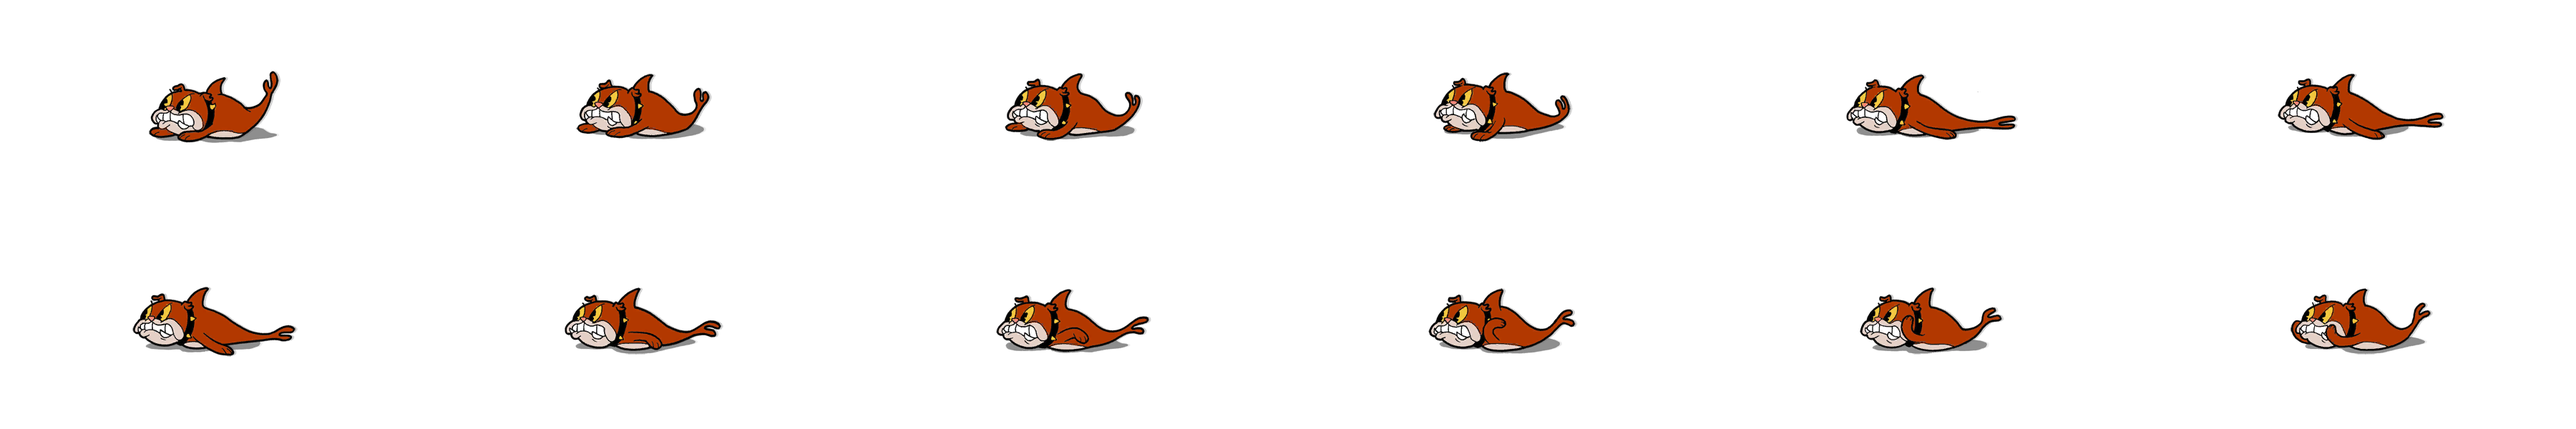
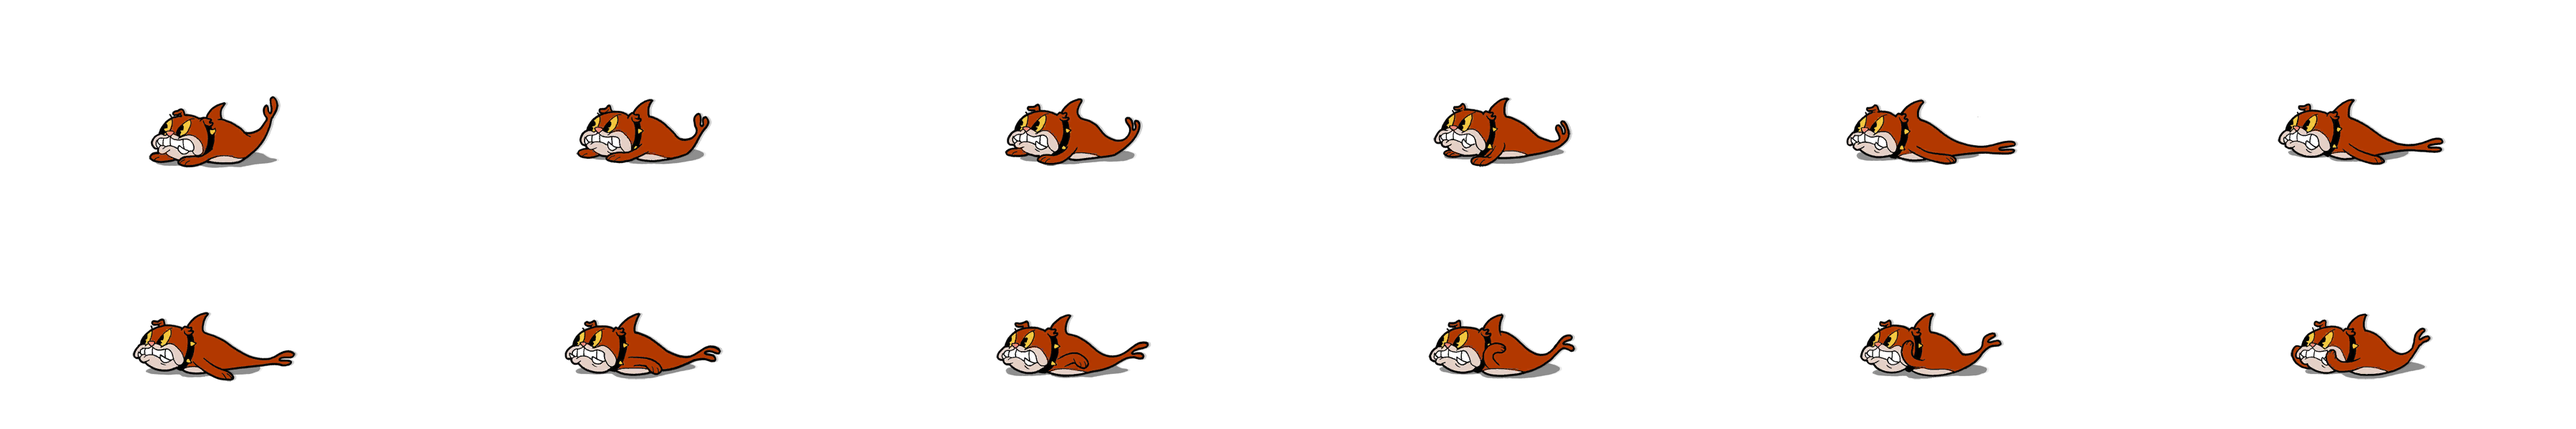
김경윤 : SeaDog 나타나서 이동까지 구현

diff --git a/DX_KKY/Contents/SeaDog.cpp b/DX_KKY/Contents/SeaDog.cpp
@@ -57,19 +57,22 @@ void ASeaDog::CreateAnimation()
 	SeaDogRenderer->CreateAnimation(PirateBossAniName::SeaDog_Appear2, "SeaDog_Appear.png", 0.057f, false, 12, 13);
 	SeaDogRenderer->CreateAnimation(PirateBossAniName::SeaDog_Appear3, "SeaDog_Appear.png", 0.0417f, false, 14, 15);
 	SeaDogRenderer->CreateAnimation(PirateBossAniName::SeaDog_Appear4, "SeaDog_Appear.png", 0.0417f, false, 16, 19);
-	SeaDogRenderer->CreateAnimation(PirateBossAniName::SeaDog_Appear5, "SeaDog_Appear.png", 0.0417f, false, 20, 21);
+	SeaDogRenderer->CreateAnimation(PirateBossAniName::SeaDog_Appear5, "SeaDog_Appear.png", 0.057f, false, 20, 21);
+	SeaDogRenderer->CreateAnimation(PirateBossAniName::SeaDog_Move, "SeaDog_Move.png", 0.0417f);
 
 
 	//UEngineSprite::CreateCutting("SeaDog_Appear_Effect.png", 6, 2);
 	//UEngineSprite::CreateCutting("SeaDog_Death.png", 8, 1);
 	//UEngineSprite::CreateCutting("SeaDog_Death_Effect.png", 5, 2);
-	//UEngineSprite::CreateCutting("SeaDog_Move.png", 6, 2);
 	//UEngineSprite::CreateCutting("SeaDog_Periscope.png", 10, 5);
 }
 
 void ASeaDog::SetAnimationCallback()
 {
-
+	SeaDogRenderer->SetFrameCallback(PirateBossAniName::SeaDog_Appear5, 2, [this]()
+		{
+			SeaDogRenderer->ChangeAnimation(PirateBossAniName::SeaDog_Move);
+		});
 }
 
 void ASeaDog::ColliderInit()
@@ -84,6 +87,7 @@ void ASeaDog::StateInit()
 		State.CreateState(PirateBossState::SeaDog_Appear2);
 		State.CreateState(PirateBossState::SeaDog_Appear3);
 		State.CreateState(PirateBossState::SeaDog_Appear4);
+		State.CreateState(PirateBossState::SeaDog_Move);
 	}
 
 	{
@@ -99,12 +103,17 @@ void ASeaDog::StateInit()
 			});
 		State.SetStartFunction(PirateBossState::SeaDog_Appear3, [this]()
 			{
-				SetSpeedVec(float4::Left * 1000.0f);
+				SetSpeedVec(float4::Left * Appear2Speed);
 				SeaDogRenderer->ChangeAnimation(PirateBossAniName::SeaDog_Appear3);
 			});
 		State.SetStartFunction(PirateBossState::SeaDog_Appear4, [this]()
 			{
 				SeaDogRenderer->ChangeAnimation(PirateBossAniName::SeaDog_Appear4);
+			});
+		State.SetStartFunction(PirateBossState::SeaDog_Move, [this]()
+			{
+				SetSpeedVec(float4::Left * MoveSpeed);
+				SeaDogRenderer->ChangeAnimation(PirateBossAniName::SeaDog_Appear5);
 			});
 	}
 
@@ -123,9 +132,11 @@ void ASeaDog::StateInit()
 			{
 				if (true == SeaDogRenderer->IsCurAnimationEnd())
 				{
+					State.ChangeState(PirateBossState::SeaDog_Move);
 					return;
 				}
 			});
+		State.SetUpdateFunction(PirateBossState::SeaDog_Move, std::bind(&ASeaDog::Move, this, std::placeholders::_1));
 	}
 
 	{
@@ -155,7 +166,7 @@ void ASeaDog::CalGravityVec(float _DeltaTime)
 void ASeaDog::Appear_Step1(float _DeltaTime)
 {
 	float4 Pos = GetActorLocation();
-	Pos.Y = -Pos.Y + PixelCheckOffset;
+	Pos.Y = -(Pos.Y - PixelCheckOffset);
 
 	if (FirstAppearXBoundary >= Pos.X && true == PixelCheck(Pos, Color8Bit::Black))
 	{
@@ -172,6 +183,17 @@ void ASeaDog::Appear_Step2(float _DeltaTime)
 	if (true == SeaDogRenderer->IsCurAnimationEnd())
 	{
 		State.ChangeState(PirateBossState::SeaDog_Appear4);
+		return;
+	}
+
+	ResultMovementUpdate(_DeltaTime);
+}
+
+void ASeaDog::Move(float _DeltaTime)
+{
+	if (GetActorLocation().X < DestroyBoundaryValue)
+	{
+		Destroy();
 		return;
 	}
 

diff --git a/DX_KKY/Contents/SeaDog.h b/DX_KKY/Contents/SeaDog.h
@@ -34,8 +34,11 @@ private:
 	
 	float JumpSpeed = 1600.0f;
 	float Appear1Speed = 500.0f;
+	float Appear2Speed = 1000.0f;
 	float PixelCheckOffset = 100.0f;
 	float FirstAppearXBoundary = 800.0f;
+	float MoveSpeed = 600.0f;
+	float DestroyBoundaryValue = -200.0f;
 
 private:
 	void BeginPlay() override;
@@ -53,5 +56,6 @@ private:
 	void StateInit();
 	void Appear_Step1(float _DeltaTime);
 	void Appear_Step2(float _DeltaTime);
+	void Move(float _DeltaTime);
 };
 

diff --git a/DX_KKY/Contents/ContentsValue.h b/DX_KKY/Contents/ContentsValue.h
@@ -382,7 +382,7 @@ namespace PirateBossState
 	const std::string SeaDog_Appear2 = "SeaDog_Appear2";
 	const std::string SeaDog_Appear3 = "SeaDog_Appear3";
 	const std::string SeaDog_Appear4 = "SeaDog_Appear4";
-
+	const std::string SeaDog_Move = "SeaDog_Move";
 }
 
 namespace PirateBossStageValue

diff --git a/DX_KKY/Contents/PirateLevelMode.cpp b/DX_KKY/Contents/PirateLevelMode.cpp
@@ -228,9 +228,4 @@ void APirateLevelMode::ObjectCreate_SeaDog()
 {
 	ASeaDog* SeaDog = GetWorld()->SpawnActor<ASeaDog>("SeaDog", EActorType::Monster).get();
 	SeaDog->SetActorLocation(float4(1140.0f, -710.0f, 0.0f));
-
-	DelayCallBack(10.0f, [this, SeaDog]()
-		{
-			SeaDog->Destroy();
-		});
 }
